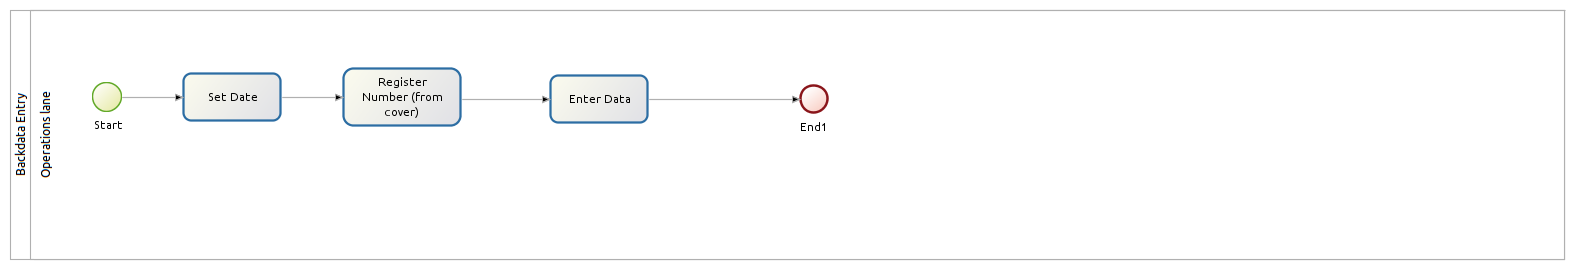
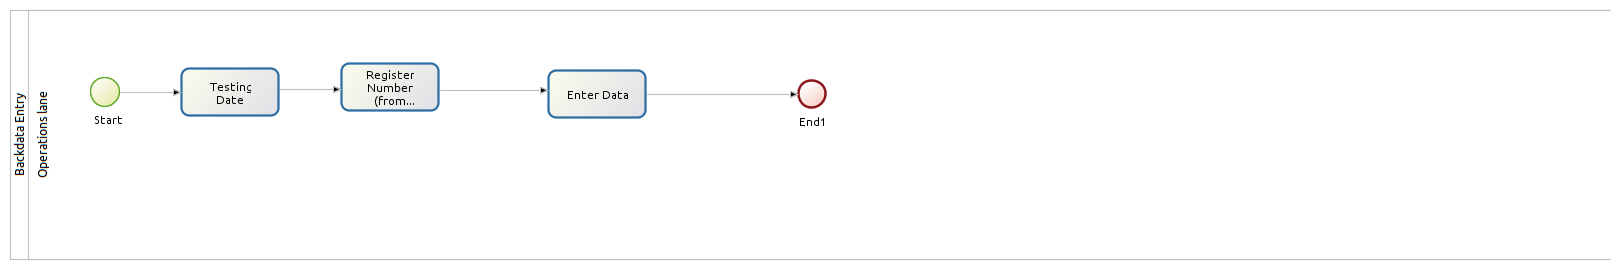
Updated label for set date in BD

diff --git a/client-src/src/App.js b/client-src/src/App.js
@@ -879,7 +879,7 @@ class App extends Component {
 
         Object.keys(this.props.wf.responses[this.state.currentWorkflow]).forEach(async (field) => {
 
-          if (["Register Number (from cover)", "Set Date"].indexOf(field) < 0)
+          if (["Register Number (from cover)", "Testing Date"].indexOf(field) < 0)
             this.props.clearField(field, this.state.currentWorkflow);
 
         })
@@ -1965,7 +1965,7 @@ class App extends Component {
         sectionHeader: "Backdata Entry",
         fieldPos: 0,
         configs: {
-          "Set Date": {
+          "Testing Date": {
             fieldType: "date",
             validationRule: "^\\d+\\s[A-Za-z]+\\s\\d{4}$",
             validationMessage: "Enter valid date (day, month, year)",
